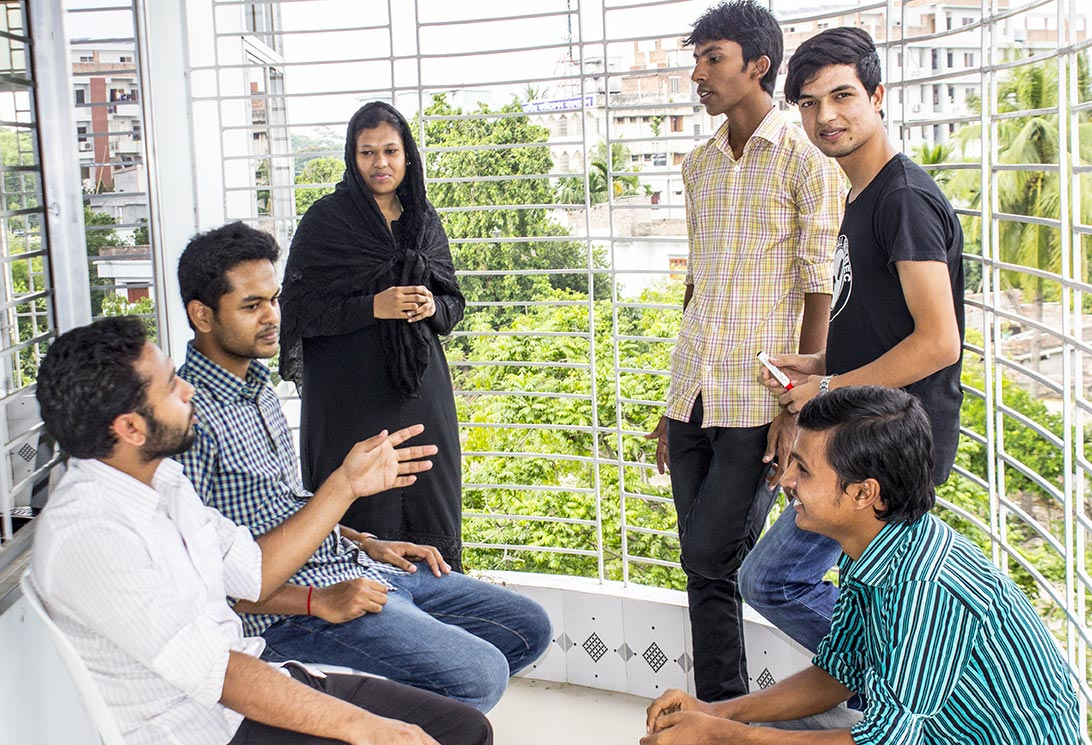
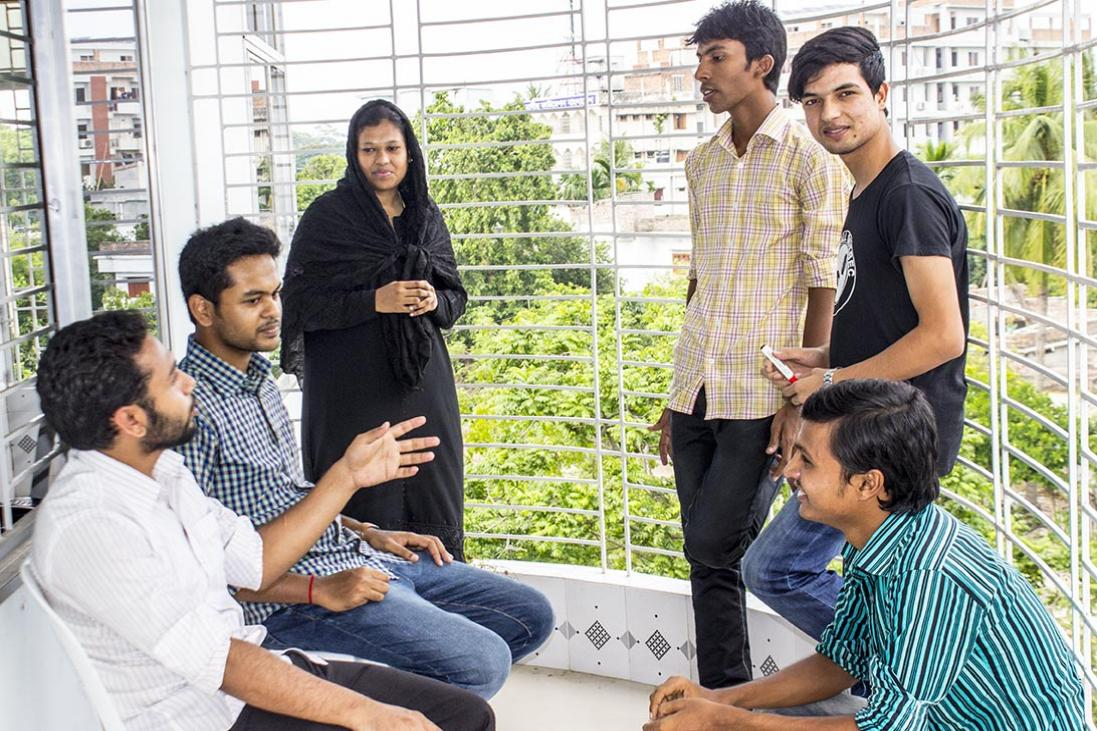
Gallary image changed

diff --git a/index.html b/index.html
@@ -402,15 +402,36 @@
     <!-- gallary section -->
     <div id="gallary">
         <h2>gallary</h2>
-          <div class="gallary">
-            <img src="img/IMG_5452.jpg" class="img-responsive wow fadeInUp" data-wow-duration="1.5s" data-wow-offset="150" data-wow-delay="0s" alt="gallary-img">
-            <img src="img/IMG_5483.jpg" class="img-responsive wow fadeInUp" data-wow-duration="1.5s" data-wow-offset="150" data-wow-delay=".2s" alt="gallary-img">
-            <img src="img/IMG_5515.jpg" class="img-responsive wow fadeInUp" data-wow-duration="1.5s" data-wow-offset="150" data-wow-delay=".4s" alt="gallary-img">
-            <img src="img/IMG_5519.jpg" class="img-responsive wow fadeInUp" data-wow-duration="1.5s" data-wow-offset="150" data-wow-delay=".6s" alt="gallary-img">
-            <img src="img/IMG_5519.jpg" class="img-responsive wow fadeInUp" data-wow-duration="1.5s" data-wow-offset="50" data-wow-delay=".8s" alt="gallary-img">
-            <img src="img/IMG_5515.jpg" class="img-responsive wow fadeInUp" data-wow-duration="1.5s" data-wow-offset="50" data-wow-delay="1s" alt="gallary-img">
-            <img src="img/IMG_5483.jpg" class="img-responsive wow fadeInUp" data-wow-duration="1.5s" data-wow-offset="50" data-wow-delay="1.2s" alt="gallary-img">
-            <img src="img/IMG_5452.jpg" class="img-responsive wow fadeInUp" data-wow-duration="1.5s" data-wow-offset="50" data-wow-delay="1.4s" alt="gallary-img">
+          <div class="gallary clearfix container-fluid">
+            <div class="row">
+              <div class="col-md-3 col-sm-3 col-xl-3 col-xs-6">
+              <img src="img/IMG_5452.jpg" class="img-responsive wow fadeInUp" data-wow-duration="1.5s" data-wow-offset="150" data-wow-delay="0s" alt="gallary-img">
+            </div>
+            <div class="col-md-3 col-sm-3 col-xl-3 col-xs-6">
+              <img src="img/IMG_5483.jpg" class="img-responsive wow fadeInUp" data-wow-duration="1.5s" data-wow-offset="150" data-wow-delay=".2s" alt="gallary-img">
+            </div>
+            <div class="col-md-3 col-sm-3 col-xl-3 col-xs-6">
+              <img src="img/IMG_5515.jpg" class="img-responsive wow fadeInUp" data-wow-duration="1.5s" data-wow-offset="150" data-wow-delay=".4s" alt="gallary-img">
+            </div>
+            <div class="col-md-3 col-sm-3 col-xl-3 col-xs-6">
+              <img src="img/IMG_5519.jpg" class="img-responsive wow fadeInUp" data-wow-duration="1.5s" data-wow-offset="150" data-wow-delay=".6s" alt="gallary-img">
+            </div>
+            </div>
+            <div class="row">
+              <div class="col-md-3 col-sm-3 col-xl-3 col-xs-6">
+              <img src="img/IMG_20160228_172711.jpg" class="img-responsive wow fadeInUp" data-wow-duration="1.5s" data-wow-offset="50" data-wow-delay=".8s" alt="gallary-img">
+            </div>
+            <div class="col-md-3 col-sm-3 col-xl-3 col-xs-6">
+              <img src="img/IMG_20160228_181346.jpg" class="img-responsive wow fadeInUp" data-wow-duration="1.5s" data-wow-offset="50" data-wow-delay="1s" alt="gallary-img">
+            </div>
+            <div class="col-md-3 col-sm-3 col-xl-3 col-xs-6">
+              <img src="img/IMG_20160228_183609.jpg" class="img-responsive wow fadeInUp" data-wow-duration="1.5s" data-wow-offset="50" data-wow-delay="1.2s" alt="gallary-img">
+            </div>
+            <div class="col-md-3 col-sm-3 col-xl-3 col-xs-6">
+              <img src="img/IMG_20160228_172537.jpg" class="img-responsive wow fadeInUp" data-wow-duration="1.5s" data-wow-offset="50" data-wow-delay="1.4s" alt="gallary-img">
+            </div>
+            </div>
+
           </div>
     </div>
     <!-- contact form section-->
@@ -439,7 +460,7 @@
                 </div>
                 <!-- google map -->
                 <div class="google-map col-sm-6 wow fadeInUp" data-wow-offset="200" data-wow-duration="1.5s">
-                    <iframe src="https://www.google.com/maps/embed?pb=!1m18!1m12!1m3!1d3634.510338329882!2d88.62933231402604!3d24.36354398429072!2m3!1f0!2f0!3f0!3m2!1i1024!2i768!4f13.1!3m3!1m2!1s0x39fbefaf17cb0673%3A0xbb1cf0034f8d5f95!2sOasis+IT+Ltd!5e0!3m2!1sen!2sbd!4v1467112172218" width="100%" height="495" frameborder="0" style="border:0" allowfullscreen></iframe>
+                    <iframe src="https://www.google.com/maps/embed?pb=!1m18!1m12!1m3!1d3634.510338329882!2d88.62933231402604!3d24.36354398429072!2m3!1f0!2f0!3f0!3m2!1i1024!2i768!4f13.1!3m3!1m2!1s0x39fbefaf17cb0673%3A0xbb1cf0034f8d5f95!2sOasis+IT+Ltd!5e0!3m2!1sen!2sbd!4v1467112172218" width="100%" height="494" frameborder="0" style="border:0" allowfullscreen></iframe>
                 </div>
             </div>
         </div>

diff --git a/css/main.css b/css/main.css
@@ -383,10 +383,12 @@ button.btn-close{
 
 
 /*gallary section css*/
-
+#gallary .col-md-3{
+    padding: 0;
+}
 
 #gallary img{
-    width: 24.7%;
+    width: 100%;
     display: inline-block;
 }
 
